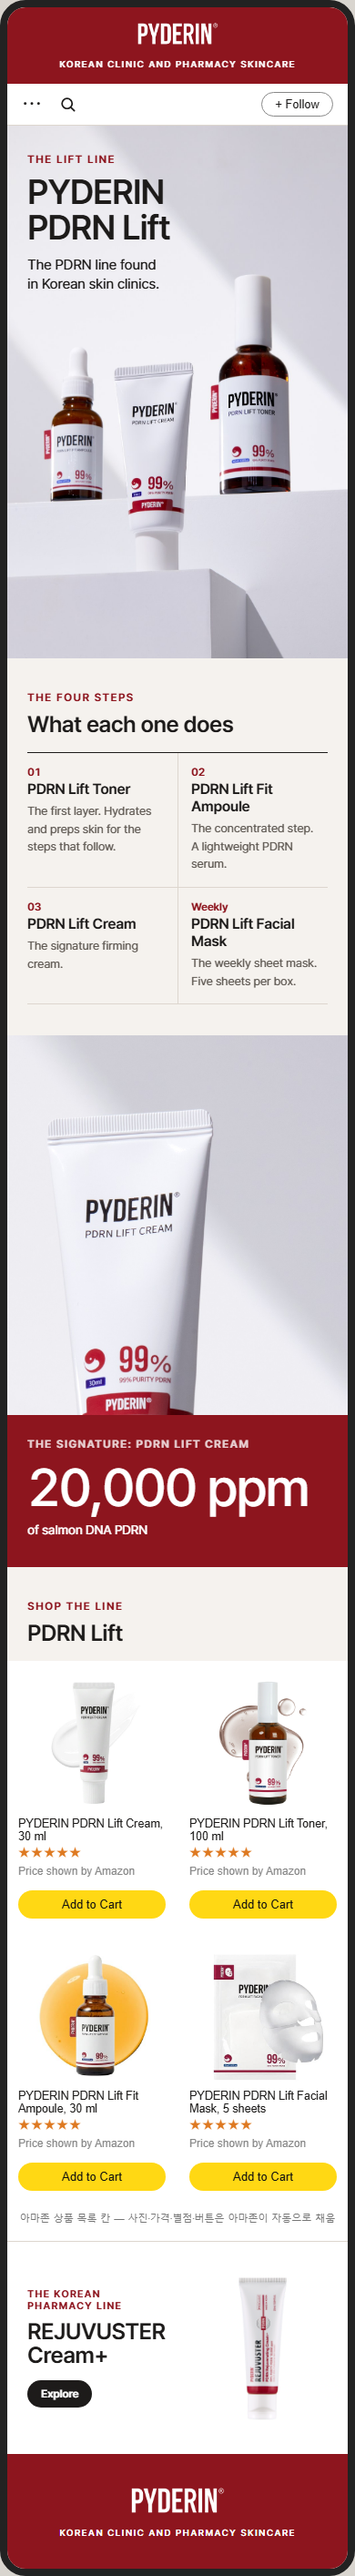
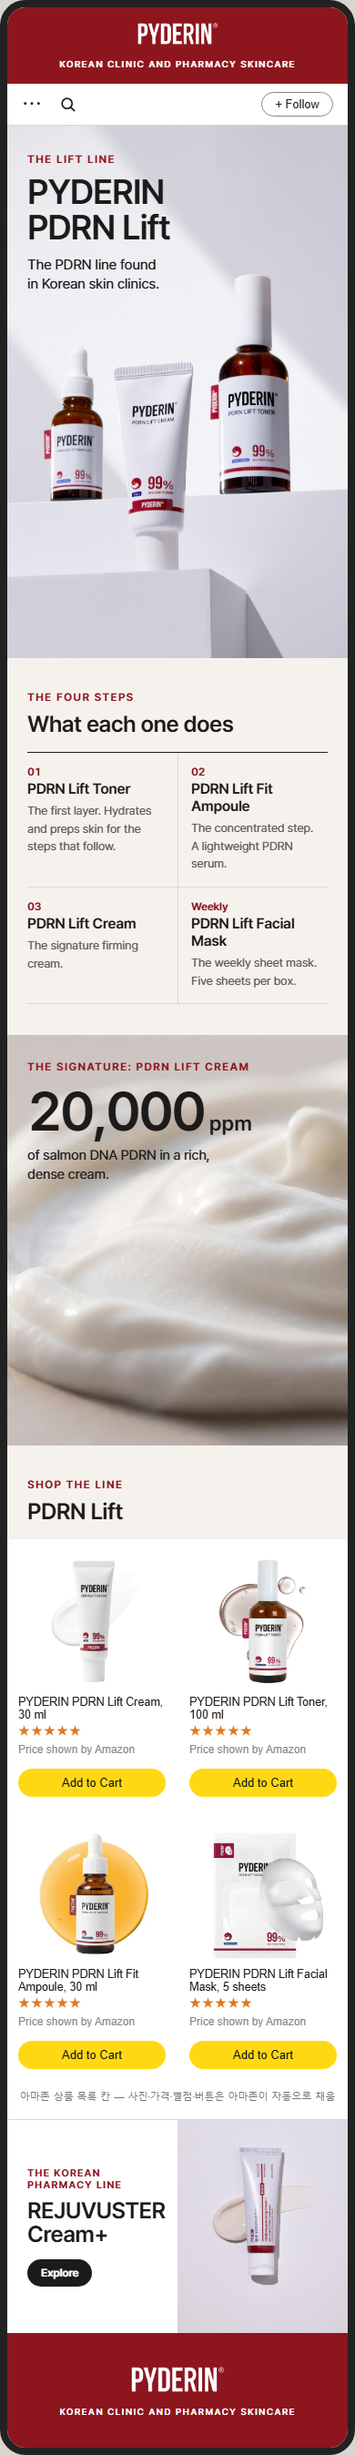
ABOUT US: 라인 개수 표현 삭제(Built on documented PDRN)

diff --git a/index.html b/index.html
@@ -352,6 +352,28 @@
   .who q { display: block; quotes: "“" "”"; font-size: 14.5px; line-height: 1.25; font-weight: 500; letter-spacing: -.01em; }
   .who span { display: block; font-size: 11.5px; line-height: 1.35; color: #ffffffa6; margin-top: 8px; }
   .who + .note { background: var(--ink); color: #ffffffa6; padding: 4px 22px 20px; font-size: 11px; }
+  /* ABOUT v4: 숫자 카드(글 왼쪽, 사진 오른쪽)와 쓰이는 곳 3카드 */
+  .dc { display: grid; grid-template-columns: 1fr 1fr; background: #fff; border-top: 2px solid var(--ground); }
+  .dc div { padding: 22px 8px 22px 22px; align-self: center; }
+  .dc b { display: block; white-space: nowrap; font-size: 36px; line-height: 1; font-weight: 600; letter-spacing: -.035em; color: var(--red); font-variant-numeric: tabular-nums; }
+  .dc strong { display: block; font-size: 15px; font-weight: 600; margin: 10px 0 4px; letter-spacing: -.01em; }
+  .dc span { display: block; font-size: 13px; line-height: 1.38; color: var(--mute); }
+  .dc img { width: 100%; height: 100%; aspect-ratio: 4/5; object-fit: cover; }
+  .n3 { display: grid; grid-template-columns: repeat(3, 1fr); background: #fff; padding: 6px 22px 4px; text-align: center; }
+  .n3 div { font-size: 12px; line-height: 1.3; color: var(--mute); padding: 4px 6px; border-left: 1px solid var(--line); }
+  .n3 div:first-child { border-left: 0; }
+  .n3 b { display: block; font-size: 27px; font-weight: 600; color: var(--red); letter-spacing: -.03em; line-height: 1.1; white-space: nowrap; margin-bottom: 4px; font-variant-numeric: tabular-nums; }
+  .tx { position: relative; overflow: hidden; background: #e9e4de; }
+  .tx > img { width: 100%; object-fit: cover; display: block; }
+  .tx .ov { position: absolute; left: 22px; right: 22px; top: 28px; color: var(--ink); }
+  .tx .eyebrow { color: var(--red); }
+  .tx b { display: block; font-size: 60px; line-height: 1; font-weight: 600; letter-spacing: -.04em; margin: 12px 0 8px; font-variant-numeric: tabular-nums; }
+  .tx b small { font-size: .38em; letter-spacing: 0; font-weight: 600; }
+  .tx p { margin: 0; font-size: 15px; line-height: 1.4; max-width: 220px; }
+  .ap { display: grid; grid-template-columns: repeat(3, 1fr); gap: 8px; padding: 0 22px 30px; }
+  .ap img { width: 100%; aspect-ratio: 3/4; object-fit: cover; border-radius: 6px; }
+  .ap strong { display: block; font-size: 13.5px; font-weight: 600; line-height: 1.2; letter-spacing: -.01em; margin: 9px 0 3px; }
+  .ap span { display: block; font-size: 11.5px; line-height: 1.32; color: var(--mute); }
 </style>
 </head>
 <body>
@@ -415,10 +437,11 @@
       <div><b>03</b><strong>PDRN Lift Cream</strong><span>The signature firming cream.</span></div>
       <div><b>Weekly</b><strong>PDRN Lift Facial Mask</strong><span>The weekly sheet mask. Five sheets per box.</span></div>
     </div></div>
-  <div class="sec num" style="margin-top:34px"><img src="img/v3/cream-block.jpg" alt="" style="aspect-ratio:35/39"><div><span class="eyebrow" style="opacity:.8;margin-bottom:10px">The signature: PDRN Lift Cream</span><b>20,000 ppm</b>of salmon DNA PDRN</div></div>
+  <div class="sec tx" style="margin-top:34px"><img src="img/v4/tex-ribbon.jpg" alt="PDRN Lift Cream texture" style="aspect-ratio:390/470;object-position:42% 50%">
+    <div class="ov"><span class="eyebrow">The signature: PDRN Lift Cream</span><b>20,000<small> ppm</small></b><p>of salmon DNA PDRN in a rich, dense cream.</p></div></div>
   <div class="sec"><div class="title"><span class="eyebrow">Shop the line</span><h3>PDRN Lift</h3></div></div>
   <div class="sec az"><div class="grid"><div class="card"><img class="pk" src="img/m-cream.jpg" alt="">PYDERIN PDRN Lift Cream, 30 ml<br><span class="stars">★★★★★</span><span class="price">Price shown by Amazon</span><span class="buy">Add to Cart</span></div><div class="card"><img class="pk" src="img/m-toner.jpg" alt="">PYDERIN PDRN Lift Toner, 100 ml<br><span class="stars">★★★★★</span><span class="price">Price shown by Amazon</span><span class="buy">Add to Cart</span></div><div class="card"><img class="pk" src="img/ampoule.jpg" alt="">PYDERIN PDRN Lift Fit Ampoule, 30 ml<br><span class="stars">★★★★★</span><span class="price">Price shown by Amazon</span><span class="buy">Add to Cart</span></div><div class="card"><img class="pk" src="img/mask.jpg" alt="">PYDERIN PDRN Lift Facial Mask, 5 sheets<br><span class="stars">★★★★★</span><span class="price">Price shown by Amazon</span><span class="buy">Add to Cart</span></div></div><div class="aznote">아마존 상품 목록 칸 — 사진·가격·별점·버튼은 아마존이 자동으로 채움</div></div>
-  <a class="xt" href="#rejuvuster"><div><span class="eyebrow">The Korean pharmacy line</span><b>REJUVUSTER<br>Cream+</b><u>Explore</u></div><img src="img/c-rejuvuster.png" alt="" style="object-fit:contain;padding:14px 0"></a>
+  <a class="xt" href="#rejuvuster"><div><span class="eyebrow">The Korean pharmacy line</span><b>REJUVUSTER<br>Cream+</b><u>Explore</u></div><img src="img/v3/rj-swatch.jpg" alt="" style="object-position:50% 40%"></a>
   <div class="sec"><div class="end"><img src="img/logo-white.png" alt="PYDERIN" style="height:30px;margin:auto"><small>Korean clinic and pharmacy skincare</small></div></div></div><div class="page" id="rejuvuster">
   <div class="sec full" style="background:#eceaf0"><div style="text-align:center;padding:32px 22px 0"><span class="eyebrow">The Korean pharmacy line</span><h2>REJUVUSTER<br>Cream+</h2><p style="margin:auto;max-width:290px">The PDRN cream carried by pharmacies across Korea.</p></div>
     <img src="img/v3/rj-three.jpg" alt="" style="aspect-ratio:390/470;object-position:50% 78%;-webkit-mask-image:linear-gradient(#0000,#000 16%);mask-image:linear-gradient(#0000,#000 16%)"></div>
@@ -441,9 +464,20 @@
   <div class="sec"><div class="band" style="text-align:left;padding:34px 22px 30px"><span class="eyebrow">About us</span><h2 style="font-size:33px;margin-bottom:12px;text-wrap:balance">PDRN skincare from Korea's clinics and pharmacies</h2><p>Found in Korean skin clinics.<br>Carried by pharmacies across Korea.</p></div>
     <div class="who">
       <div><img src="img/dr-park.jpg" alt=""><p><q>PYDERIN is the perfect partner for our philosophy.</q><span>Dr. Sangwook Park, Medical Director, Seorae Cell Clinic</span></p></div>
-      <div><img src="img/ph-byul2.jpg" alt=""><p><q>Not all PDRN is the same.</q><span>Pharmacist, Seoul</span></p></div>
+      <div><img src="img/pick/p13.jpg" alt="" style="object-position:50% 18%"><p><q>Only 99% high-purity PDRN from Korean chum salmon.</q><span>Pharmacist, Seoul</span></p></div>
     </div></div>
-  <div class="sec"><div class="pq" style="padding:30px 22px 28px"><span class="eyebrow" style="color:var(--red);margin-bottom:8px">Our approach</span><q style="quotes:none;font-size:27px;font-weight:600;letter-spacing:-.025em;line-height:1.08">Two lines.<br>One documented PDRN.</q><span style="font-size:14px;line-height:1.45;max-width:300px">Source, purity and molecular weight come from the supplier's certificates.</span></div>
+  <div class="sec" style="background:var(--ground)"><div class="title" style="padding-bottom:26px"><span class="eyebrow">Our approach</span><h3>Every number,<br>on paper.</h3><p style="margin:10px 0 0;font-size:14px;line-height:1.45;color:var(--mute)">One PDRN from Korean chum salmon. Purity and molecular weight come from the supplier's certificates.<sup>1</sup></p></div></div>
+  <div class="sec">
+    <img src="img/v3/lift-ledge.jpg" alt="PYDERIN PDRN Lift Cream" style="width:100%;aspect-ratio:390/400;object-fit:cover;object-position:50% 30%;background:#fff">
+    <div class="n3"><div><b>99%</b>PDRN purity<sup>1</sup></div><div><b>97 <span style="text-transform:none">kDa</span></b>low molecular weight<sup>1</sup></div><div><b>20,000</b>ppm PDRN in<br>Lift Cream</div></div>
+    <div class="note" style="background:#fff;padding:10px 22px 16px;font-size:11px"><sup>1</sup> Genocure certificate of analysis, April 2025, and certificate of origin, February 2023.</div></div>
+  <div class="sec" style="background:var(--ground);border-top:2px solid #fff"><div class="title" style="padding-top:34px"><span class="eyebrow">In Korea</span><h3>Where PYDERIN is used</h3></div>
+    <div class="ap">
+      <div><img src="img/pick/c5.jpg" alt=""><strong>In skin clinics</strong><span>On the counter at Korean skin clinics.</span></div>
+      <div><img src="img/pick/p6.jpg" alt="" style="object-position:30% 50%"><strong>At 2,000+ pharmacies</strong><span>Explained by pharmacists across Korea.</span></div>
+      <div><img src="img/hall.jpg" alt="" style="object-position:62% 50%"><strong>With professionals</strong><span>Shared at the 2026 PYDERIN Symposium.</span></div>
+    </div></div>
+  <div class="sec"><div class="title" style="background:#fff;padding-bottom:18px"><span class="eyebrow">Two lines</span><h3>One documented PDRN</h3></div>
     <div class="tiles t2" style="margin-top:0"><a href="#pyderin"><img src="img/v3/lift-blocks2.jpg" alt="" style="object-position:50% 45%"><div><span class="eyebrow">The Lift line</span><b>PYDERIN</b></div><u>Explore</u></a><a href="#rejuvuster"><img src="img/v3/rj-stack.jpg" alt="" style="object-position:50% 85%"><div><span class="eyebrow">The Korean pharmacy line</span><b>REJUVUSTER</b></div><u>Explore</u></a></div></div>
   <div class="sec"><div class="end"><img src="img/logo-white.png" alt="PYDERIN" style="height:30px;margin:auto"><small>Korean clinic and pharmacy skincare</small></div></div></div>
   </div>
